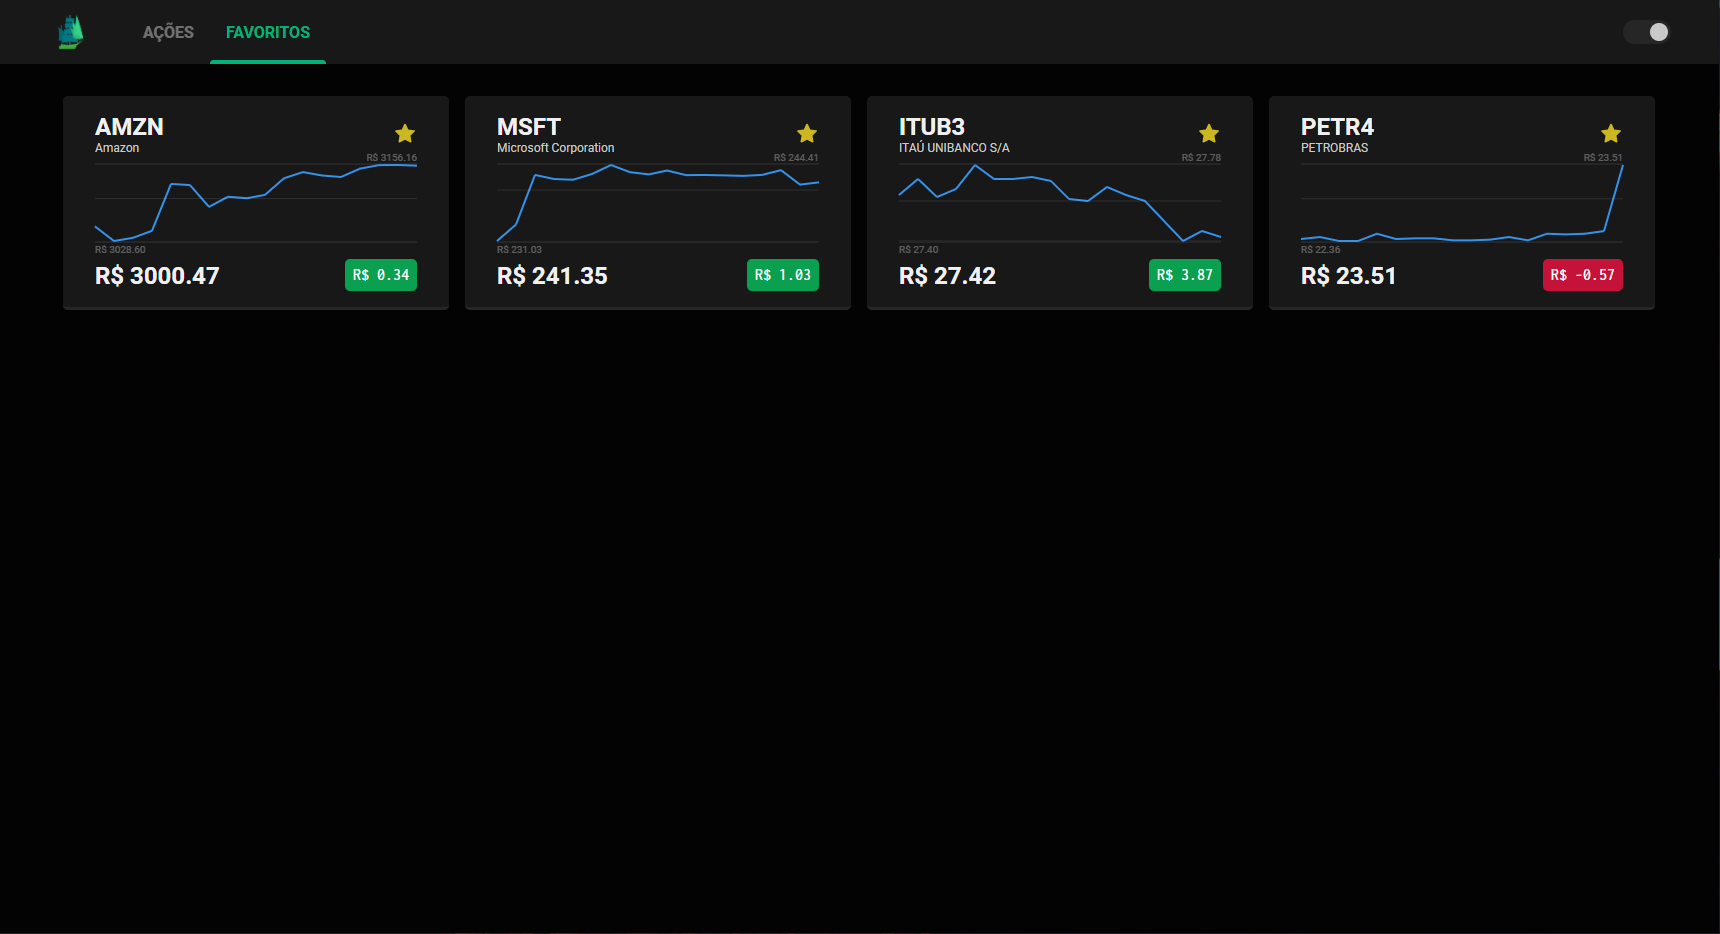
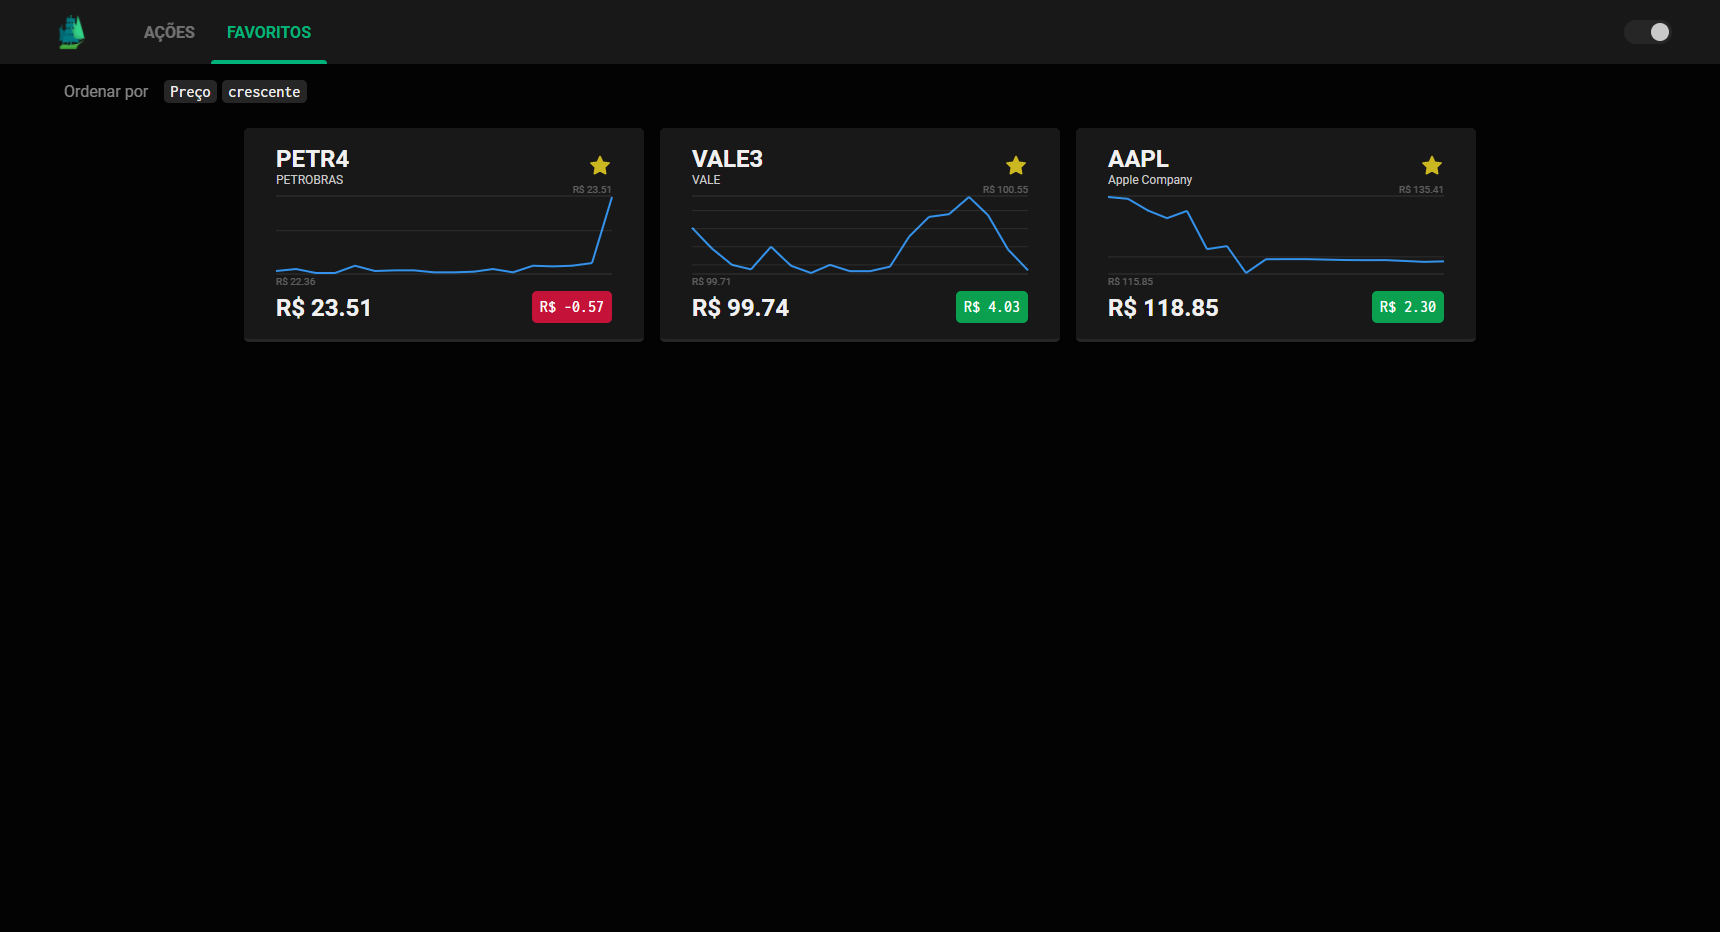
docs(readme): update 'README'

diff --git a/README.md b/README.md
@@ -4,27 +4,65 @@ Esse projeto é fruto do desafio técnico *front-end* da [ValeMobi](https://www.
 
 ## Descrição
 
-A aplicação consiste basicamente em um visualizador de ações, as quais é possível favoritar ou desfavoritar.
+A aplicação consiste basicamente em um visualizador de ações do mercado financeiro.
 
 <img alt="Tela inicial" src=".github/stocks-web-black.png" height="480px"/>
 
-## Favoritos
+### Favoritos
 
 Ações favoritadas podem ser visualizadas na aba **Favoritos**:
 
 <img alt="Aba Favoritos" src=".github/favorites-web-black.png" height="480px"/>
 
-## Temas & Responsividade
+### Ordenamento
+
+É possível ordenar as ações por **preço** e por **variação**, tanto de forma **decrescente** quanto de forma **crescente**:
+
+<img alt="Ordenado por variação decrescente" src=".github/stocks-web-white.png" height="480px"/>
+
+### Temas & Responsividade
 
 O aplicativo também é capaz de trocar entre os temas **claro** e **escuro**, além de ser **responsivo** para dispositivos *mobile*:
 
 <img alt="Tema escuro mobile" src=".github/stocks-mobile-black.png" height="560px"/><img alt="Tema claro mobile" src=".github/stocks-mobile-white.png" height="560px"/>
 
-## UI do Gráfico
+### UI do Gráfico
 
 Ao passar o *mouse* pelo gráfico, um ***popup*** aparece indicando o valor da ação naquele ponto e se foi uma subida ou queda:
 
 <img alt="Popup de subida" src=".github/stock-white-up.png" height="240px"/><img alt="Popup de queda" src=".github/stock-white-down.png" height="240px"/>
+
+<br/>
+
+## Instruções para Executar o Projeto
+
+Faça o *download* do repositório em sua máquina e abra um terminal no escopo do diretório raíz do projeto.
+
+### Usando Yarn
+
+No terminal, rode o seguinte comando:
+
+```...\desafio-frontend> yarn```
+
+Ele irá instalar as dependências do projeto. Após finalizadas todas as instalações, rode:
+
+```...\desafio-frontend> yarn start```
+
+A partir daí, a aplicação poderá ser vista no seu *browser* no [localhost:3000](http://localhost:3000/).
+
+### Usando Docker
+
+Para executar a aplicação pelo Docker, você precisa do [Docker Desktop](https://www.docker.com/products/docker-desktop) instalado na sua máquina e ligado.
+
+Cumpridos os requisitos, rode o comando:
+
+```...\desafio-frontend> docker build -t desafio-frontend .```
+
+O Docker vai criar uma imagem chamada `desafio-frontend` dentro de um *container*. Para ligar esse *container*, rode o seguinte comando:
+
+```...\desafio-frontend> docker run -p 3000:3000 desafio-frontend```
+
+A partir daí, a aplicação poderá ser vista no seu *browser* no [localhost:3000](http://localhost:3000/).
 
 <br/>
 <br/>
